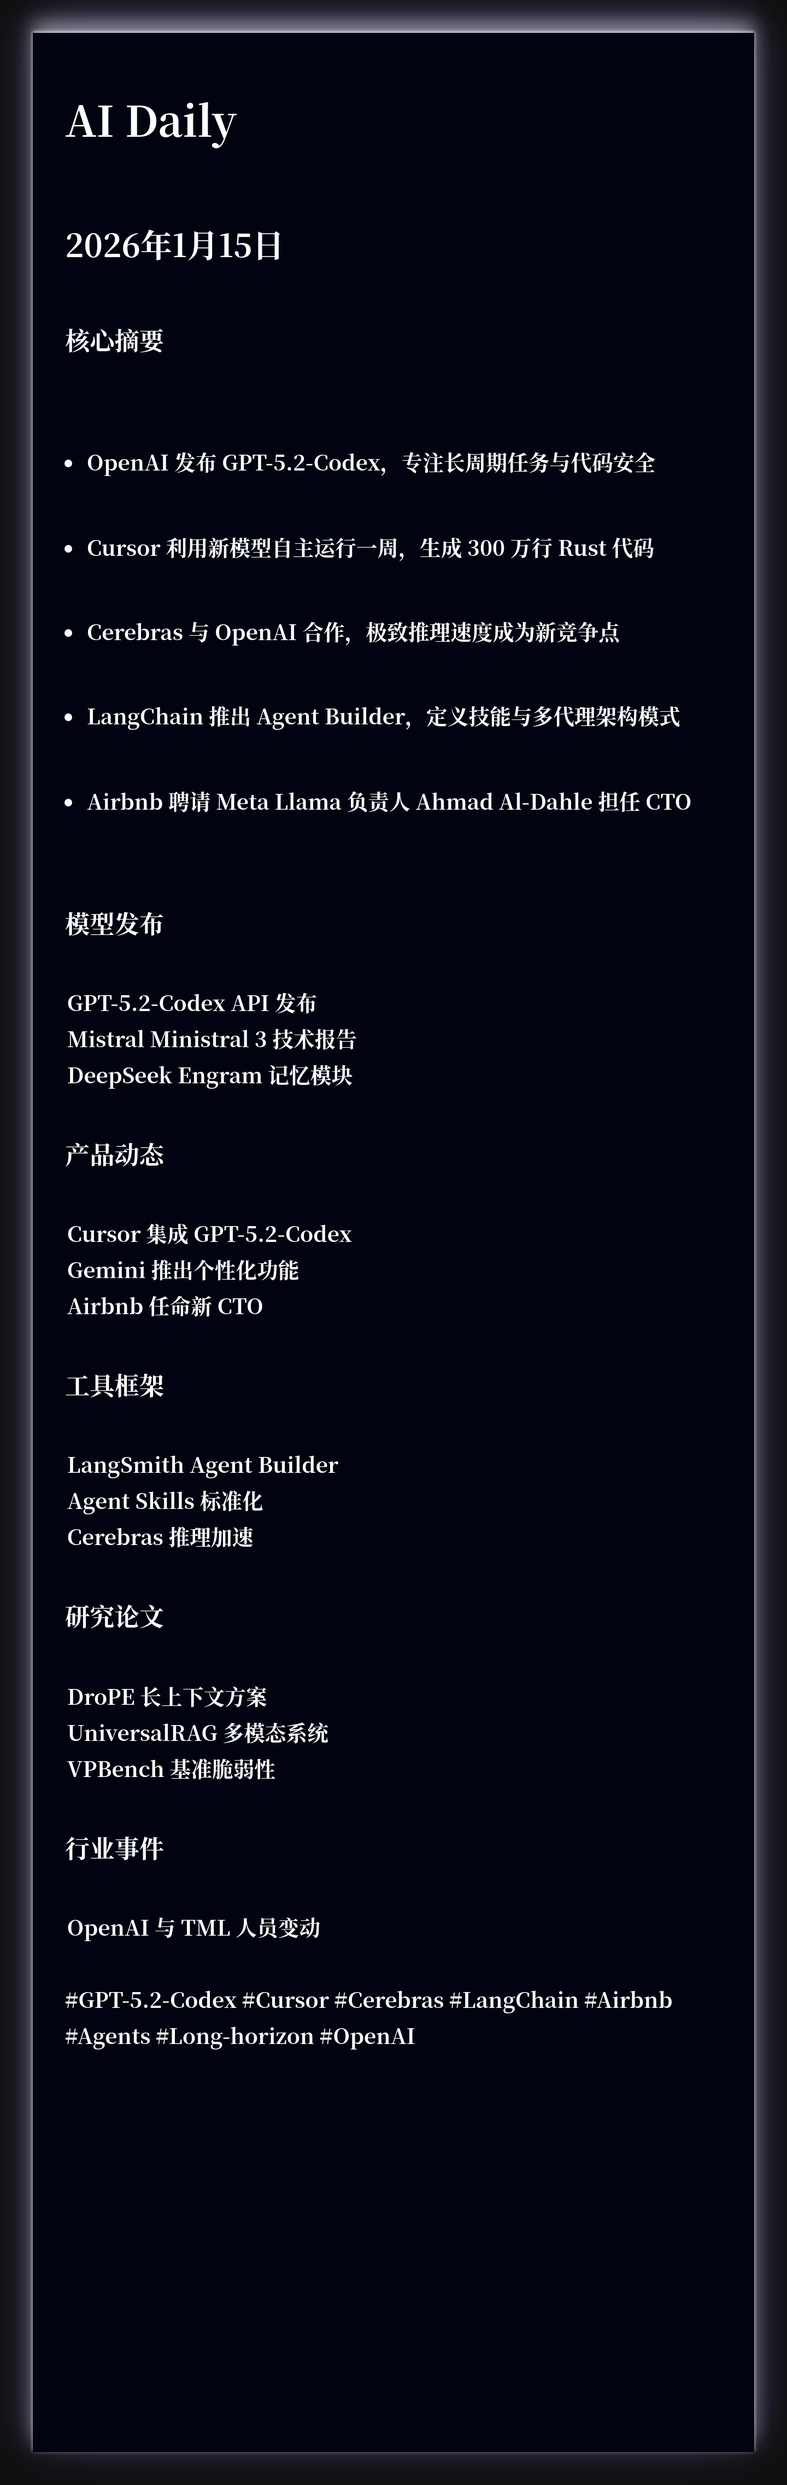
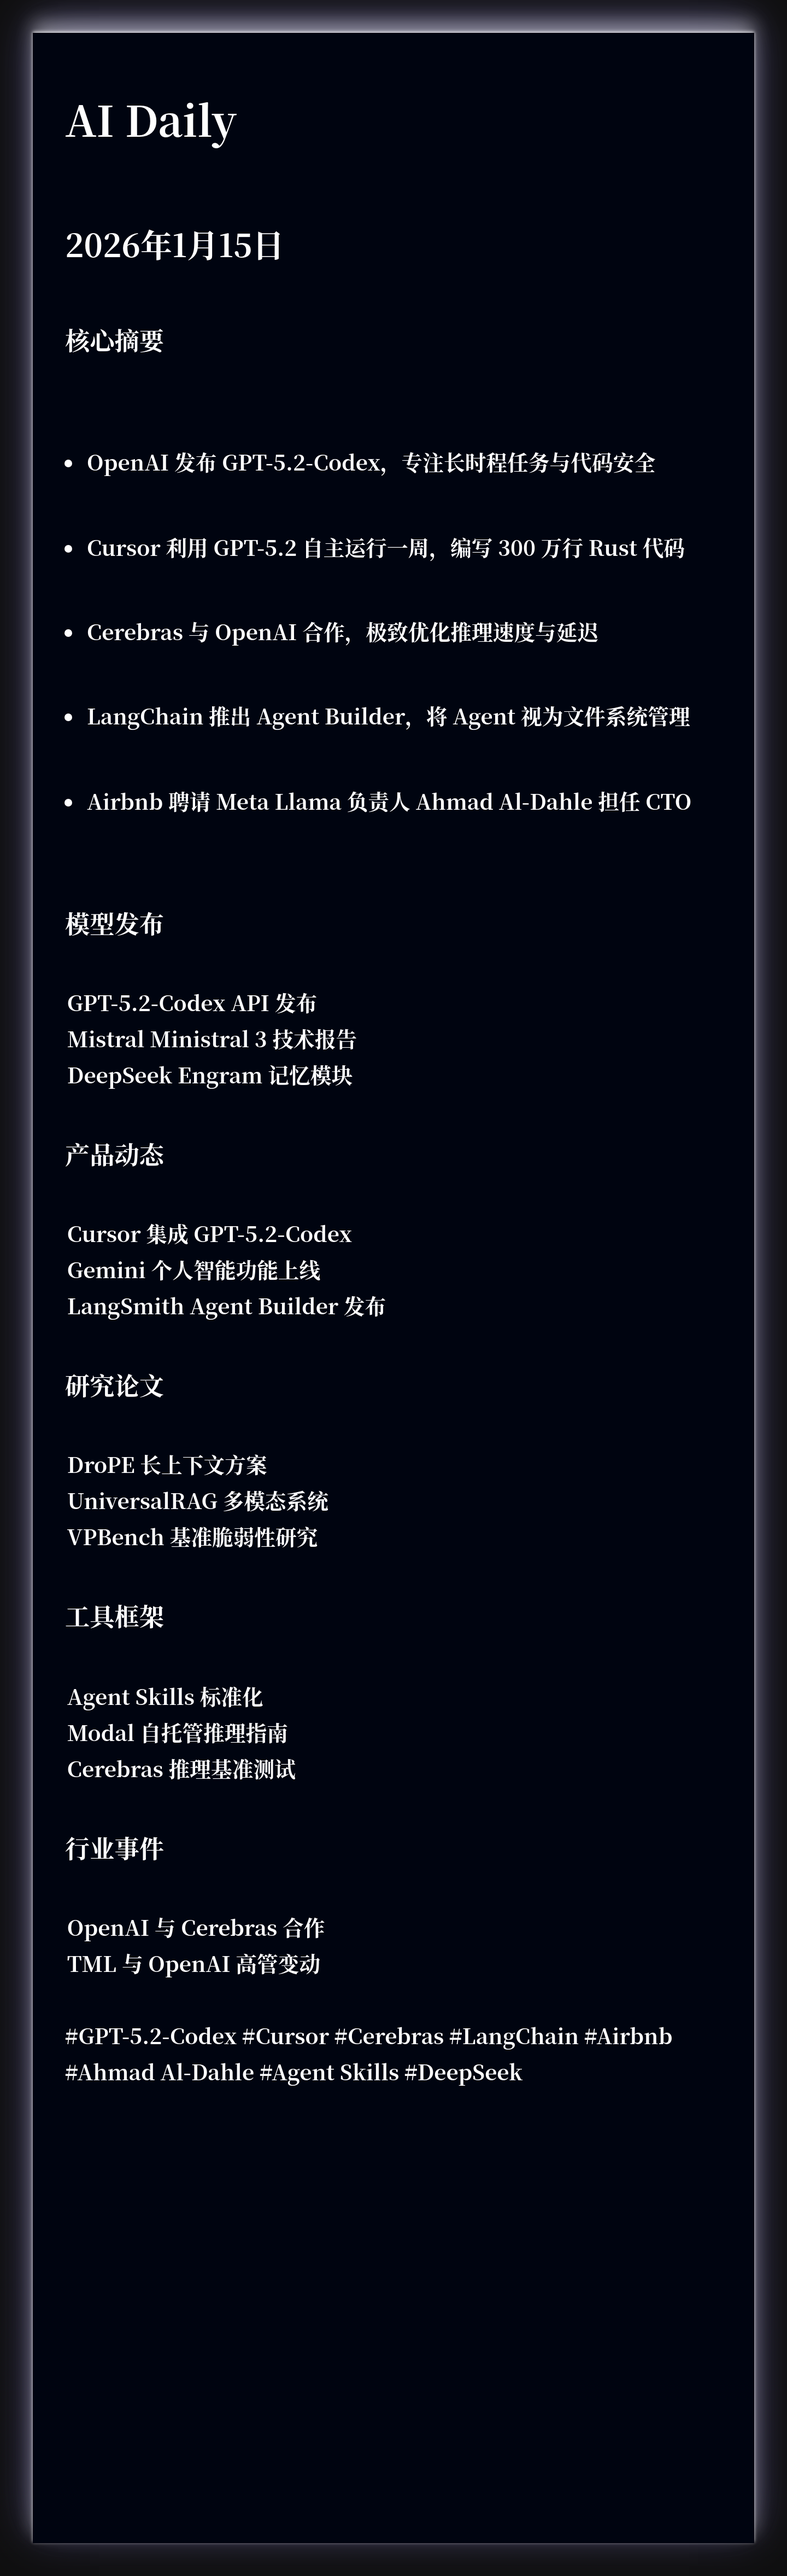
🤖 Auto update AI Daily - {{ date }} f883165ca6406d08192ae78b6ddab82f7af15066

diff --git a/2026-01-15.html b/2026-01-15.html
@@ -5,7 +5,7 @@
     <meta name="viewport" content="width=device-width, initial-scale=1.0">
     <title>AI Daily · 2026年1月15日 星期四</title>
     <meta name="description" content="每日 AI 前沿资讯，智能分类，快速掌握核心动态">
-    <meta name="keywords" content="GPT-5.2-Codex, Cursor, Cerebras, LangChain, Airbnb, Agents, Long-horizon, OpenAI, DeepSeek, Mistral, AI, 人工智能, 机器学习, 深度学习, 资讯, 日报">
+    <meta name="keywords" content="GPT-5.2-Codex, Cursor, Cerebras, LangChain, Airbnb, Ahmad Al-Dahle, Agent Skills, DeepSeek, Mistral, UniversalRAG, AI, 人工智能, 机器学习, 深度学习, 资讯, 日报">
     <link rel="stylesheet" href="css/styles.css">
 </head>
 <body data-theme="blue">
@@ -24,10 +24,10 @@
             <section class="summary-card">
                 <h2 class="section-title">📌 今日核心摘要</h2>
                 <ul class="summary-list">
-                <li class="summary-item">OpenAI 发布 GPT-5.2-Codex，专注长周期任务与代码安全</li>
-                <li class="summary-item">Cursor 利用新模型自主运行一周，生成 300 万行 Rust 代码</li>
-                <li class="summary-item">Cerebras 与 OpenAI 合作，极致推理速度成为新竞争点</li>
-                <li class="summary-item">LangChain 推出 Agent Builder，定义技能与多代理架构模式</li>
+                <li class="summary-item">OpenAI 发布 GPT-5.2-Codex，专注长时程任务与代码安全</li>
+                <li class="summary-item">Cursor 利用 GPT-5.2 自主运行一周，编写 300 万行 Rust 代码</li>
+                <li class="summary-item">Cerebras 与 OpenAI 合作，极致优化推理速度与延迟</li>
+                <li class="summary-item">LangChain 推出 Agent Builder，将 Agent 视为文件系统管理</li>
                 <li class="summary-item">Airbnb 聘请 Meta Llama 负责人 Ahmad Al-Dahle 担任 CTO</li>
                 </ul>
             </section>
@@ -46,8 +46,8 @@
                         <h3 class="news-title">GPT-5.2-Codex API 发布</h3>
                         <a href="https://twitter.com/OpenAIDevs/status/2011499597169115219" class="item-link" target="_blank" rel="noopener">详情</a>
                     </div>
-                    <p class="news-summary">OpenAI 推出最强代码模型，专注长周期任务与漏洞挖掘，集成至 GitHub 和 Cursor</p>
-                    <div class="item-tags"><span class="tag">#OpenAI</span> <span class="tag">#GPT-5.2</span> <span class="tag">#Codex</span> <span class="tag">#API</span></div>
+                    <p class="news-summary">OpenAI 推出最强代码模型，专注长时程任务与漏洞挖掘</p>
+                    <div class="item-tags"><span class="tag">#OpenAI</span> <span class="tag">#GPT-5.2</span> <span class="tag">#Codex</span></div>
                 </article>
 
                 <article class="news-card">
@@ -55,8 +55,8 @@
                         <h3 class="news-title">Mistral Ministral 3 技术报告</h3>
                         <a href="https://twitter.com/eliebakouch/status/2011548952676499480" class="item-link" target="_blank" rel="noopener">详情</a>
                     </div>
-                    <p class="news-summary">公开小模型配方，强调剪枝、蒸馏及在线 DPO 等优化技术</p>
-                    <div class="item-tags"><span class="tag">#Mistral</span> <span class="tag">#Distillation</span> <span class="tag">#Pruning</span></div>
+                    <p class="news-summary">强调剪枝与蒸馏技术，提供具体的小模型优化配方</p>
+                    <div class="item-tags"><span class="tag">#Mistral</span> <span class="tag">#Pruning</span> <span class="tag">#Distillation</span></div>
                 </article>
 
                 <article class="news-card">
@@ -64,7 +64,7 @@
                         <h3 class="news-title">DeepSeek Engram 记忆模块</h3>
                         <a href="https://twitter.com/LiorOnAI/status/2011468534887469448" class="item-link" target="_blank" rel="noopener">详情</a>
                     </div>
-                    <p class="news-summary">探讨 MoE 计算与稀疏存储分离，实现 O(1) 复杂度的 n-gram 检索</p>
+                    <p class="news-summary">提出 MoE 计算与稀疏存储分离，实现 O(1) 查找</p>
                     <div class="item-tags"><span class="tag">#DeepSeek</span> <span class="tag">#Memory</span> <span class="tag">#MoE</span></div>
                 </article>
 
@@ -75,7 +75,7 @@
                 <div class="category-header">
                     <span class="category-icon">💼</span>
                     <h2 class="category-title">产品动态</h2>
-                    <span class="category-count">3</span>
+                    <span class="category-count">4</span>
                 </div>
                 <div class="news-grid">
 
@@ -84,17 +84,26 @@
                         <h3 class="news-title">Cursor 集成 GPT-5.2-Codex</h3>
                         <a href="https://twitter.com/cursor_ai/status/2011500027945033904" class="item-link" target="_blank" rel="noopener">详情</a>
                     </div>
-                    <p class="news-summary">IDE 立即集成新模型，展示代理连续运行一周构建浏览器的成果</p>
-                    <div class="item-tags"><span class="tag">#Cursor</span> <span class="tag">#IDE</span> <span class="tag">#Agents</span></div>
+                    <p class="news-summary">定位为长时程任务的前沿模型，展示自主编程能力</p>
+                    <div class="item-tags"><span class="tag">#Cursor</span> <span class="tag">#IDE</span> <span class="tag">#Agent</span></div>
                 </article>
 
                 <article class="news-card">
                     <div class="news-card-header">
-                        <h3 class="news-title">Gemini 推出个性化功能</h3>
+                        <h3 class="news-title">Gemini 个人智能功能上线</h3>
                         <a href="https://twitter.com/Google/status/2011473056921706852" class="item-link" target="_blank" rel="noopener">详情</a>
                     </div>
-                    <p class="news-summary">连接 Gmail、Photos 等应用，提供基于个人历史的智能服务</p>
+                    <p class="news-summary">连接 Gmail、Photos 等应用，提供个性化 AI 体验</p>
                     <div class="item-tags"><span class="tag">#Google</span> <span class="tag">#Gemini</span> <span class="tag">#Personalization</span></div>
+                </article>
+
+                <article class="news-card">
+                    <div class="news-card-header">
+                        <h3 class="news-title">LangSmith Agent Builder 发布</h3>
+                        <a href="https://twitter.com/LangChain/status/2011501888735494184" class="item-link" target="_blank" rel="noopener">详情</a>
+                    </div>
+                    <p class="news-summary">将 Agent 视为文件系统，支持技能、记忆与子代理</p>
+                    <div class="item-tags"><span class="tag">#LangChain</span> <span class="tag">#Agent</span> <span class="tag">#Builder</span></div>
                 </article>
 
                 <article class="news-card">
@@ -102,46 +111,8 @@
                         <h3 class="news-title">Airbnb 任命新 CTO</h3>
                         <a href="https://twitter.com/Ahmad_Al_Dahle/status/2011440460821320056" class="item-link" target="_blank" rel="noopener">详情</a>
                     </div>
-                    <p class="news-summary">Meta Llama 项目负责人 Ahmad Al-Dahle 加盟 Airbnb 担任 CTO</p>
+                    <p class="news-summary">Meta Llama 负责人 Ahmad Al-Dahle 加盟 Airbnb</p>
                     <div class="item-tags"><span class="tag">#Airbnb</span> <span class="tag">#Meta</span> <span class="tag">#CTO</span></div>
-                </article>
-
-                </div>
-            </section>
-
-            <section class="category-section">
-                <div class="category-header">
-                    <span class="category-icon">🛠</span>
-                    <h2 class="category-title">工具框架</h2>
-                    <span class="category-count">3</span>
-                </div>
-                <div class="news-grid">
-
-                <article class="news-card">
-                    <div class="news-card-header">
-                        <h3 class="news-title">LangSmith Agent Builder</h3>
-                        <a href="https://twitter.com/LangChain/status/2011501888735494184" class="item-link" target="_blank" rel="noopener">详情</a>
-                    </div>
-                    <p class="news-summary">将代理视为文件系统，支持技能、MCP 和子代理，建议优先使用单代理</p>
-                    <div class="item-tags"><span class="tag">#LangChain</span> <span class="tag">#Agents</span> <span class="tag">#Builder</span></div>
-                </article>
-
-                <article class="news-card">
-                    <div class="news-card-header">
-                        <h3 class="news-title">Agent Skills 标准化</h3>
-                        <a href="https://twitter.com/_philschmid/status/2011345054343053370" class="item-link" target="_blank" rel="noopener">详情</a>
-                    </div>
-                    <p class="news-summary">推出跨生态系统的技能文件夹结构，兼容 Gemini CLI 和 Claude Code</p>
-                    <div class="item-tags"><span class="tag">#Skills</span> <span class="tag">#MCP</span> <span class="tag">#Standardization</span></div>
-                </article>
-
-                <article class="news-card">
-                    <div class="news-card-header">
-                        <h3 class="news-title">Cerebras 推理加速</h3>
-                        <a href="https://twitter.com/cerebras/status/2011531740804964855" class="item-link" target="_blank" rel="noopener">详情</a>
-                    </div>
-                    <p class="news-summary">与 OpenAI 合作，强调低延迟和高吞吐量，GLM-4.7 速度达 1445 tok/s</p>
-                    <div class="item-tags"><span class="tag">#Cerebras</span> <span class="tag">#Inference</span> <span class="tag">#Speed</span></div>
                 </article>
 
                 </div>
@@ -160,8 +131,8 @@
                         <h3 class="news-title">DroPE 长上下文方案</h3>
                         <a href="https://twitter.com/gabriberton/status/2011326182986564090" class="item-link" target="_blank" rel="noopener">详情</a>
                     </div>
-                    <p class="news-summary">移除 RoPE 位置编码并微调，在保持性能的同时改善长上下文行为</p>
-                    <div class="item-tags"><span class="tag">#RoPE</span> <span class="tag">#Long Context</span> <span class="tag">#Fine-tuning</span></div>
+                    <p class="news-summary">移除 RoPE 和位置编码，微调后改善长上下文性能</p>
+                    <div class="item-tags"><span class="tag">#Long Context</span> <span class="tag">#RoPE</span> <span class="tag">#Fine-tuning</span></div>
                 </article>
 
                 <article class="news-card">
@@ -169,17 +140,55 @@
                         <h3 class="news-title">UniversalRAG 多模态系统</h3>
                         <a href="https://twitter.com/omarsar0/status/2011442693134754243" class="item-link" target="_blank" rel="noopener">详情</a>
                     </div>
-                    <p class="news-summary">提出模态感知路由和跨粒度检索，避免强制统一嵌入空间</p>
+                    <p class="news-summary">提出模态感知路由，避免强制单一嵌入空间</p>
                     <div class="item-tags"><span class="tag">#RAG</span> <span class="tag">#Multimodal</span> <span class="tag">#Retrieval</span></div>
                 </article>
 
                 <article class="news-card">
                     <div class="news-card-header">
-                        <h3 class="news-title">VPBench 基准脆弱性</h3>
+                        <h3 class="news-title">VPBench 基准脆弱性研究</h3>
                         <a href="https://twitter.com/lisabdunlap/status/2011521499182875116" class="item-link" target="_blank" rel="noopener">详情</a>
                     </div>
-                    <p class="news-summary">研究表明视觉模型排名易受微小视觉变化（如颜色标记）影响</p>
+                    <p class="news-summary">发现视觉模型排名易受标记颜色等微小变化影响</p>
                     <div class="item-tags"><span class="tag">#Benchmark</span> <span class="tag">#VLM</span> <span class="tag">#Evaluation</span></div>
+                </article>
+
+                </div>
+            </section>
+
+            <section class="category-section">
+                <div class="category-header">
+                    <span class="category-icon">🛠</span>
+                    <h2 class="category-title">工具框架</h2>
+                    <span class="category-count">3</span>
+                </div>
+                <div class="news-grid">
+
+                <article class="news-card">
+                    <div class="news-card-header">
+                        <h3 class="news-title">Agent Skills 标准化</h3>
+                        <a href="https://twitter.com/_philschmid/status/2011345054343053370" class="item-link" target="_blank" rel="noopener">详情</a>
+                    </div>
+                    <p class="news-summary">Phil Schmid 推出技能可移植层，兼容多 CLI 生态</p>
+                    <div class="item-tags"><span class="tag">#Agent</span> <span class="tag">#Skills</span> <span class="tag">#Standardization</span></div>
+                </article>
+
+                <article class="news-card">
+                    <div class="news-card-header">
+                        <h3 class="news-title">Modal 自托管推理指南</h3>
+                        <a href="https://twitter.com/charles_irl/status/2011484220032762114" class="item-link" target="_blank" rel="noopener">详情</a>
+                    </div>
+                    <p class="news-summary">发布 20k GPU 集群运维与批处理优化技术细节</p>
+                    <div class="item-tags"><span class="tag">#Modal</span> <span class="tag">#Inference</span> <span class="tag">#GPU</span></div>
+                </article>
+
+                <article class="news-card">
+                    <div class="news-card-header">
+                        <h3 class="news-title">Cerebras 推理基准测试</h3>
+                        <a href="https://twitter.com/ArtificialAnlys/status/2011581689567592641" class="item-link" target="_blank" rel="noopener">详情</a>
+                    </div>
+                    <p class="news-summary">GLM-4.7 达到 1445 tokens/s，速度成为核心差异点</p>
+                    <div class="item-tags"><span class="tag">#Cerebras</span> <span class="tag">#Benchmark</span> <span class="tag">#Latency</span></div>
                 </article>
 
                 </div>
@@ -189,17 +198,26 @@
                 <div class="category-header">
                     <span class="category-icon">🏆</span>
                     <h2 class="category-title">行业事件</h2>
-                    <span class="category-count">1</span>
+                    <span class="category-count">2</span>
                 </div>
                 <div class="news-grid">
 
                 <article class="news-card">
                     <div class="news-card-header">
-                        <h3 class="news-title">OpenAI 与 TML 人员变动</h3>
+                        <h3 class="news-title">OpenAI 与 Cerebras 合作</h3>
+                        <a href="https://twitter.com/cerebras/status/2011531740804964855" class="item-link" target="_blank" rel="noopener">详情</a>
+                    </div>
+                    <p class="news-summary">双方达成合作，聚焦于降低延迟与提升吞吐量</p>
+                    <div class="item-tags"><span class="tag">#OpenAI</span> <span class="tag">#Cerebras</span> <span class="tag">#Partnership</span></div>
+                </article>
+
+                <article class="news-card">
+                    <div class="news-card-header">
+                        <h3 class="news-title">TML 与 OpenAI 高管变动</h3>
                         <a href="https://twitter.com/miramurati/status/2011577319295692801" class="item-link" target="_blank" rel="noopener">详情</a>
                     </div>
-                    <p class="news-summary">Barret Zoph 离任 Thinking Machines Lab，随后重返 OpenAI</p>
-                    <div class="item-tags"><span class="tag">#OpenAI</span> <span class="tag">#Leadership</span> <span class="tag">#Churn</span></div>
+                    <p class="news-summary">Barret Zoph 离任 TML 并重返 OpenAI，Soumith Chintala 任 CTO</p>
+                    <div class="item-tags"><span class="tag">#OpenAI</span> <span class="tag">#TML</span> <span class="tag">#Leadership</span></div>
                 </article>
 
                 </div>
@@ -207,7 +225,7 @@
 
 
         <footer class="keywords-footer">
-            <p>#关键词: GPT-5.2-Codex | Cursor | Cerebras | LangChain | Airbnb | Agents | Long-horizon | OpenAI | DeepSeek | Mistral</p>
+            <p>#关键词: GPT-5.2-Codex | Cursor | Cerebras | LangChain | Airbnb | Ahmad Al-Dahle | Agent Skills | DeepSeek | Mistral | UniversalRAG</p>
         </footer>
 
         </main>

diff --git a/index.html b/index.html
@@ -29,7 +29,7 @@
                         <span class="entry-date">2026年1月15日 星期四</span>
                         <span class="entry-arrow">→</span>
                     </div>
-                    <p class="entry-summary">OpenAI 发布 GPT-5.2-Codex，专注长周期任务与代码安全</p>
+                    <p class="entry-summary">OpenAI 发布 GPT-5.2-Codex，专注长时程任务与代码安全</p>
                 </a>
             </article>
 

diff --git a/css/styles.css b/css/styles.css
@@ -9,6 +9,17 @@
     --title-color: #FFFFFF;
 }
 
+/* 0. 极简白(亮色)主题 */
+body[data-theme="light"] {
+    --bg-color: #FFFFFF;
+    --title-color: #1D1D1F;
+    --glow-start: #FFFFFF;
+    --glow-end: #F5F5F7;
+    --text-color: #333333;
+    --accent-color: #0066CC;
+    --secondary-color: #86868B;
+}
+
 /* 1. 柔和蓝色主题 */
 body[data-theme="blue"] {
     --glow-start: #0A1929;
